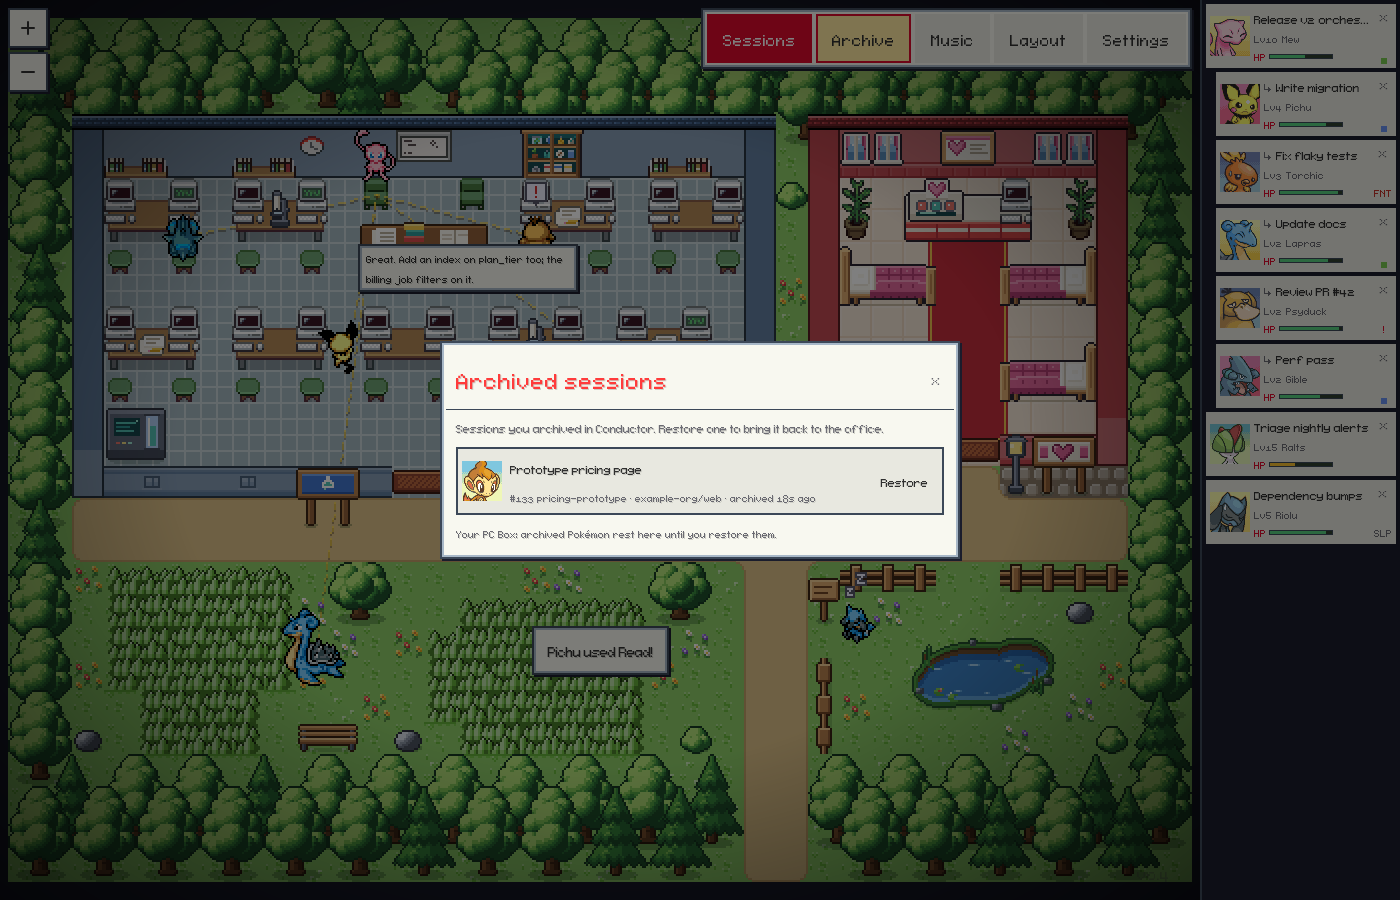
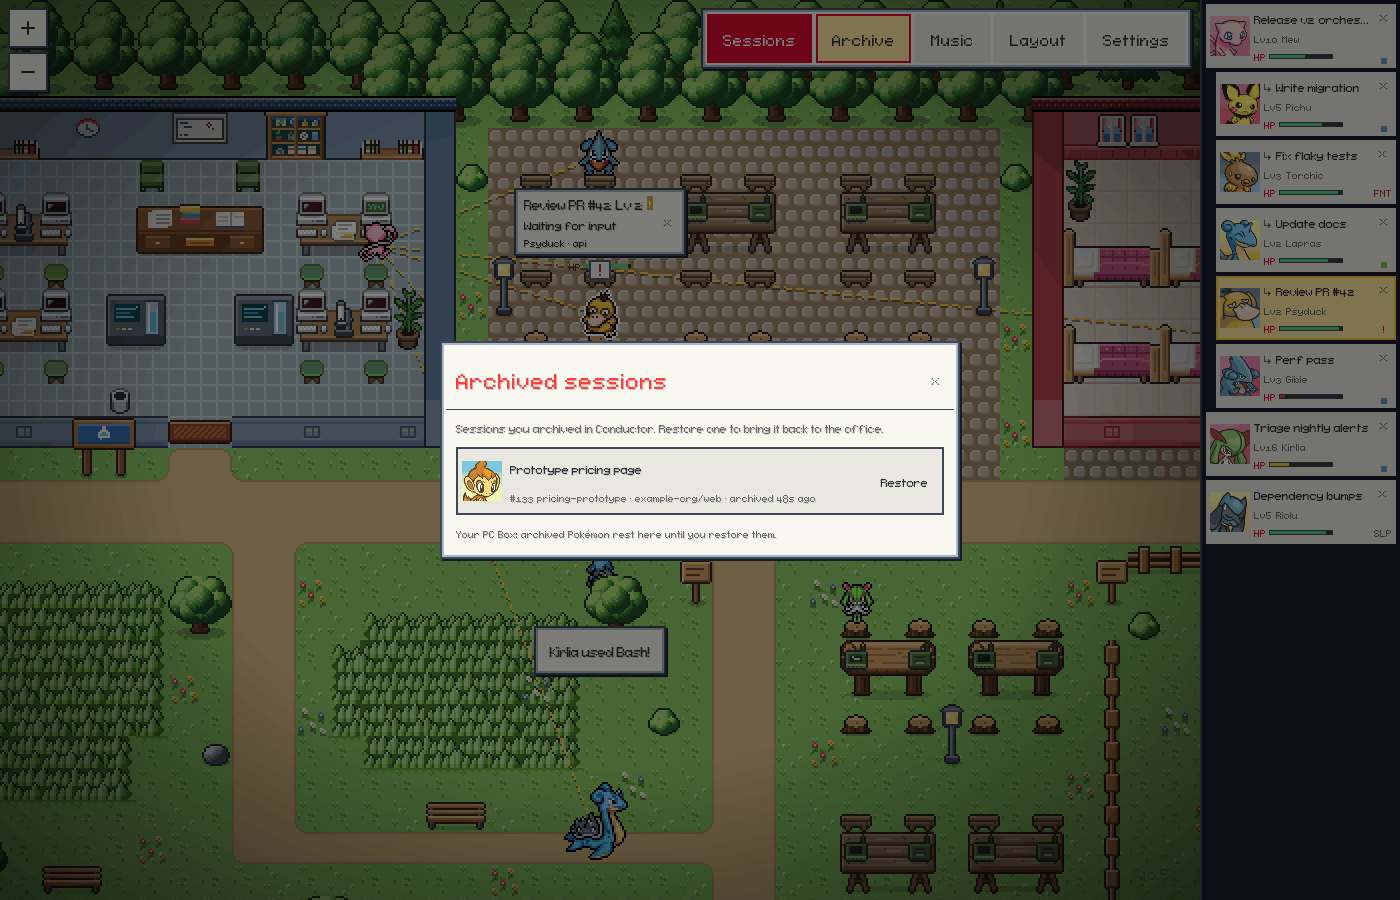
release: v0.5.0
A town twice the size with the work moved outdoors (Leads at Lab desks,
everyone else at the Work Yard's and the Grove's tables), panning and
zooming about the pointer, the catch orb (throws, recalls, messages and
the app icon), Archive in place of the PC, "Hide sessions idle longer
than" in Sessions, and a connecting card that follows the server.

The package, the Mac app and both lockfiles move to 0.5.0; the CHANGELOG's
unreleased notes become a shorter v0.5.0 entry (with main's resize fix),
and the in-app notes get a 0.5 entry.

Every README screenshot is retaken from --demo with sprites on (a
throwaway HOME, no Conductor credentials), 1400x900, palette-quantized
with pngquant without dithering: the hero at 2x zoomed out over the whole
north side and most of the Meadow, the home view at 1x, the party bar
beside the Center, the Pokédex's Chat tab, Sessions, Archived sessions,
the Jukebox, and the Mac app's window from the Electron build under xvfb.
They show the same species as before (Psyduck, Lapras, Mew, Pichu,
Torchic, Kirlia, Chimchar, Gible, Riolu), so the Credits list stands; the
alt texts describe the new town.

diff --git a/webview-ui/src/changelogData.ts b/webview-ui/src/changelogData.ts
@@ -42,6 +42,34 @@ export const CHANGELOG_REPO_URL = 'https://github.com/joshle298/poke-agents';
  *  is built on. */
 export const changelogEntries: ChangelogEntry[] = [
   {
+    version: '0.5',
+    sections: [
+      {
+        title: 'Features',
+        items: [
+          'A town twice the size: Leads work in the Lab, every other session at a table outdoors',
+          'Scroll or drag the ground to look around; zooming stays on the point under the pointer',
+          'The catch orb: sessions are thrown out of it, recalled into it and messaged as one, and it is the new app icon',
+        ],
+      },
+      {
+        title: 'Changes',
+        items: [
+          'Sessions: hide sessions idle longer than 15 min to 3 days, or never',
+          'Archive replaces the PC: Archived sessions, with Restore',
+          '"Connecting to Conductor…" no longer sticks after the connection comes back',
+        ],
+      },
+    ],
+    contributors: [
+      {
+        name: '@joshle298',
+        url: 'https://github.com/joshle298',
+        description: 'Poke Agents: the bigger town, the catch orb, Archive and the idle limit',
+      },
+    ],
+  },
+  {
     version: '0.4',
     sections: [
       {

diff --git a/CHANGELOG.md b/CHANGELOG.md
@@ -1,27 +1,28 @@
 # Changelog
 
-## Unreleased
+## Poke Agents v0.5.0
 
-A bigger town, with the work moved outdoors.
+A town twice the size with the work moved outdoors, the catch orb, Archive, and an idle limit in Sessions.
 
 ### Features
 
-- **A town twice the size.** The Pokémon Town is now 56×38 tiles, at the same zoom: the Lab and the Pokémon Center along the top, a cobbled Work Yard between them, and south of the main street a larger Meadow with a route through its tall grass, the Grove and the fenced pond garden. The Center has eight beds.
-- **The Lab is for Leads.** A working Lead sits at one of the Lab's desks. Every other working session sits at a picnic table or a log table outdoors, in the Work Yard or the Grove, on a bench or a tree stump; each table has two field terminals, one facing each side, that light up while someone works there. When every outdoor seat is taken, the rest work standing in a work area or at the edge of the Meadow beside one, and take a seat once its last sitter has walked off. With no Leads the Lab stays empty. A session resting between turns stays at its seat (a Lead longer), and one whose turn ends on its way to its seat walks on and rests there; one idle for longer still wanders and naps in the Meadow, now in the part nearest it. Fainted ones still rest in the Center, and asleep ones stay put.
-- **Look around a town larger than the window.** Scroll with two fingers or the mouse wheel to move around, drag the ground with the mouse (in the classic office too), and pinch or Ctrl/⌘-scroll to zoom: the zoom now stays on the point under the pointer (the zoom buttons keep the middle of the view). The office opens on the Lab and the Work Yard (in a narrow window, the whole Lab and as much of the Work Yard as fits), and the camera stops at the town's edges.
+- **A town twice the size** (56×38 tiles): the Lab and the Pokémon Center along the top with a cobbled Work Yard between them, and south of the main street a larger Meadow, the Grove and the fenced pond garden. The Center has eight beds.
+- **The Lab is for Leads.** A working Lead sits at a Lab desk. Every other working session sits at a picnic or log table in the Work Yard or the Grove, where two field terminals light up while it works, and works standing nearby when every seat is taken. A session resting between turns stays at its seat (a Lead longer); one idle for longer wanders the nearest part of the Meadow.
+- **Look around.** Scroll with two fingers or the mouse wheel, or drag the ground (in the classic office too), to move around, and pinch or Ctrl/⌘-scroll to zoom: the zoom stays on the point under the pointer. The office opens on the Lab and the Work Yard, and the camera stops at the town's edges.
+- **The catch orb.** Sessions are thrown out of and recalled into Poke Agents' own orb, a glossy teal sphere inside a gold C for Conductor, and messages fly between them as one. The C spins in flight, and the orb cracks open with a slit of light. A session whose sprites are loading waits as the closed orb, and the healing machine in the Pokémon Center holds three.
+- **A new app icon:** the catch orb on the night tile, in the Mac app, the favicon and the installed web app.
 
 ### Changes
 
-- **Hide sessions idle longer than.** The Sessions modal's activity window says what it does, with shorter choices: 15 min, 30 min, 1 h, 6 h, 24 h, 3 days or Never. A session with no activity for longer leaves the town by itself. **Never** says that it still stops at 30 days, the furthest back Poke Agents looks. **Show idle sessions** sits right under it and says what turning it off leaves: working, waiting and errored sessions.
-- **Archive instead of PC.** The toolbar's **PC** button is now **Archive** and opens **Archived sessions**, which says what it lists. **Withdraw** is now **Restore**, and the Pokédex's **Deposit in PC** is now **Archive**.
-- **The catch orb.** Sessions are now thrown out of and recalled into Poke Agents' own catch orb, and messages fly between them as one, instead of the teal-and-cream capsule: a glossy teal-to-indigo sphere inside a gold C for Conductor, open on the right with a small latch. The C spins round it while it flies and comes to rest as it lands, then the orb cracks open with a slit of light and a flash before the Pokémon appears. A session whose sprites are loading waits as the closed orb, and the party bar, the Pokédex, the archived sessions and the empty office show it where there is no portrait.
-- **A new app icon:** the catch orb on the night tile, with two sparkles, in the Mac app, the favicon and the installed web app. At 16 and 48 px it is drawn without outlines or sparkles.
-- A saved Pokémon Town from an earlier version that was never edited becomes the new town when the office starts, keeping the pets placed in it; the old one is kept as `~/.pixel-agents/layout.json.town-….bak`. A town you edited stays as it is (Layout → Templates → Pokémon Town loads the new one), and the classic office and your own layouts are never touched.
-- The floor, the paths and the forest are drawn once in pieces as they come into view, so a big town costs what the window shows, at any zoom.
+- **Hide sessions idle longer than** in Sessions: 15 min, 30 min, 1 h, 6 h (the default), 24 h, 3 days or Never (which still stops at 30 days). **Show idle sessions** sits under it and says what turning it off leaves: working, waiting and errored sessions.
+- **Archive instead of PC.** The toolbar's **Archive** opens **Archived sessions**. **Withdraw** is now **Restore**, and the Pokédex's **Deposit in PC** is now **Archive**.
+- A Pokémon Town saved by an earlier version and never edited becomes the new town when the office starts, keeping its pets; the old one is kept as `~/.pixel-agents/layout.json.town-….bak`. A town you edited stays as it is.
+- The ground is drawn in pieces as it comes into view, so a big town costs what the window shows.
 
 ### Fixes
 
-- **"Connecting to Conductor…" no longer sticks.** After the office's connection to Poke Agents drops and comes back (a restarted server, a laptop waking), the office asks for everything again, so it shows the sessions and the connection as they are now. Before, it could keep saying "Connecting to Conductor…" while Conductor had long been connected with its sessions in the town. The card also counts the seconds, and after 20 s says **Still connecting…** with "Conductor may be slow; sessions appear as they load."
+- **"Connecting to Conductor…" no longer sticks.** After the office's connection to Poke Agents drops and comes back (a restarted server, a laptop waking), the office asks for everything again. The card also counts the seconds, and after 20 s says **Still connecting…**.
+- Resizing the window no longer flashes blank frames.
 
 ## Poke Agents v0.4.0
 

diff --git a/CLAUDE.md b/CLAUDE.md
@@ -435,7 +435,7 @@ Teammate dismissal is driven by team config polling (`getTeamMembers(teamName)` 
 - **Provider**: registers as `id: 'conductor'` (`displayName` "Conductor demo"), so every Conductor path works unchanged: the webview's mode gating and chrome, `conductorDriver(ctx)` session actions, `agentDetails.conductorSessionId`, the Mac app's notifications. `conductorStatus` is `connected` with `account` "demo mode, synthetic sessions" and no `lastSyncAt`. Tool status text, reading/subagent tool sets and context windows are the Conductor provider's.
 - **Files**: `world.ts` (`DemoWorld`: per-session fake state and action queues played against script time; emits through the `AgentEventSink` exactly as the poller does: adoption seeds inside `seedSilently`, children before their Lead so a Lead is created legendary, the spawned link before the child's adoption so it is thrown out of the Lead, details throttled to 1.5 s, the session list throttled like the poller's), `story.ts` (the script), `cast.ts` (sessions: synthetic names, `example-org/*` repos, claude/codex/cursor models), `random.ts` (seeded mulberry32), `constants.ts`, `demo.ts`.
 - **Story**: round 0 (300 s) is fixed for every seed: the Lead spawns five workers over ~20 s; "Update docs" finishes at ~27 s and falls asleep two minutes later (~147 s); "Review PR #42" asks an AskUserQuestion at ~27 s (the Lead answers at 200 s if nobody did); "Fix flaky tests" faints at ~35 s and the Lead revives it at 75 s; "Triage nightly alerts" (Lv 15, Codex) evolves at ~57 s; "Prototype pricing page" is archived at 24 s (it fills Archived sessions); "Perf pass" fills its context and compacts; "Onboarding copy tweaks" is hidden and "Dependency bumps" pinned. Later rounds hand every worker a new task with the same beats; `--demo-seed` varies only the generated history, the replies and later rounds. `--demo-speed` / `POKE_AGENTS_DEMO_SPEED` scale script time (0.25-20).
-- **User actions** act on the fake state: a message to an idle session runs a short turn and a reply, to a busy one an acknowledgement, to a fainted one its scripted revive (else a generic one), to an asking one answers the question; stop ends the turn (`aborted`); deposit, withdraw, hide, pin and scope work as in the poller; Switch model (`continueSession`) adds a session in the original's workspace with the chosen agent and model (ids from `…000000000901` up), linked as a handoff before it walks in, which runs a short catch-up turn (`DemoReplies.handoff`); the catalog's favorites are `DEMO_FAVORITE_MODELS`. `openExternal` is refused ("This is a demo session…"). Pokédex detail = the newest 40 entries (5 tool rows); history pages of 30 with `t<index>` cursors, over a generated back-story for sessions that existed before the start.
+- **User actions** act on the fake state: a message to an idle session runs a short turn and a reply, to a busy one an acknowledgement, to a fainted one its scripted revive (else a generic one), to an asking one answers the question; stop ends the turn (`aborted`); archive, restore, hide, pin and scope work as in the poller; Switch model (`continueSession`) adds a session in the original's workspace with the chosen agent and model (ids from `…000000000901` up), linked as a handoff before it walks in, which runs a short catch-up turn (`DemoReplies.handoff`); the catalog's favorites are `DEMO_FAVORITE_MODELS`. `openExternal` is refused ("This is a demo session…"). Pokédex detail = the newest 40 entries (5 tool rows); history pages of 30 with `t<index>` cursors, over a generated back-story for sessions that existed before the start.
 - **Persistence**: no stream memory (every run replays the same story from the start); seats and agents in `demo-state.json` (`FileStateAdapter` `stateFileStem`), settings shared with the standalone office. `StandaloneAccess.demo` keeps a demo office and a real one from reusing each other.
 - **Tests**: `server/__tests__/demoProvider.test.ts` drives the real `StreamAgentDriver` with fake timers and no network (adoption, legendary Lead, spawns, links, messages, faint and revive, the question, evolution, compaction, archive and restore, user actions, history, determinism).
 - **README screenshots** (`docs/screenshots/`): captured from `--demo` only, on a throwaway `HOME` with no Conductor credentials in the environment, never from a real Conductor account (real session and repository names are private). Round 0 is fixed, so the same moments recur: at ~50-75 s "Fix flaky tests" lies fainted in a Pokémon Center bed, "Review PR #42" waits on its question and "Triage nightly alerts" has evolved. PNGs are palette-quantized (no dithering) to stay well under 600 KB each. They are the only Pokémon art in the repository: they show PMDCollab sprites, so the README's Credits names each species in them and its artists (as Settings → About & credits lists them); update that list whenever a screenshot's species change.

diff --git a/README.md b/README.md
@@ -2,7 +2,7 @@
 
 Watch your [Conductor](https://conductor.build) cloud sessions as Pokémon in a small pixel-art town.
 
-![The town in demo mode: Pokémon at work in the Lab, a capsule flying from the Lead, a fainted Pokémon in a Pokémon Center bed, idle ones in the tall grass](docs/screenshots/town-2x.png)
+![The town in demo mode, zoomed out: the Lead at a desk in the Lab, workers at the Work Yard's picnic tables with a message orb flying to the Lead, a fainted Pokémon in a Pokémon Center bed, one working in the Grove, and idle ones in the Meadow](docs/screenshots/town-2x.png)
 
 Poke Agents is inspired by and based on [Pixel Agents](https://github.com/pixel-agents-hq/pixel-agents) by Pablo De Lucca, under the [MIT License](LICENSE). The screenshots in this README come from the built-in [demo](#demo), with synthetic sessions.
 
@@ -212,7 +212,7 @@ The demo plays a scripted story with synthetic sessions instead of connecting to
 
 Everything in the office works on the demo's sessions, and nothing reaches Conductor: **Open in Conductor** says there is nothing to open. Sprites, cries and radio tracks download as usual. The first round, about five minutes long, plays the same way every time; then the Lead hands out new tasks. `--demo-seed <n>` varies the history and later rounds, and `--demo-speed <x>` plays the story faster or slower. The demo keeps its seats in its own file and never replaces an office that shows your real sessions.
 
-![The demo office a minute in: the Lead at the lectern, workers at their desks, a fainted Pokémon in bed, a sleeper in the tall grass](docs/screenshots/town.png)
+![The demo office a minute in, as it opens on the Lab and the Work Yard: the Lead at a Lab desk, workers at the Work Yard's tables with a message orb in flight, one at a table in the Grove, and an idle one in the tall grass](docs/screenshots/town.png)
 
 ## Sign In
 
